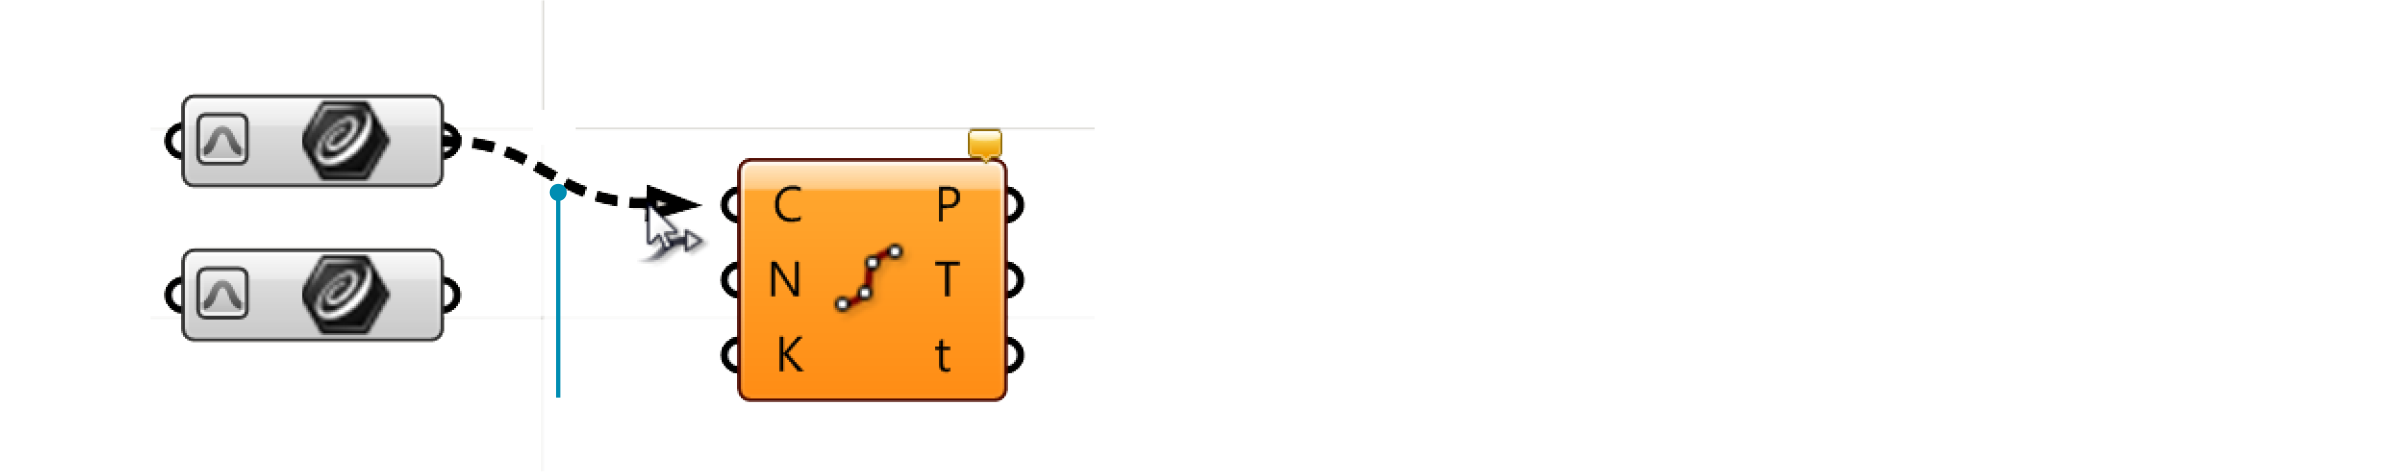
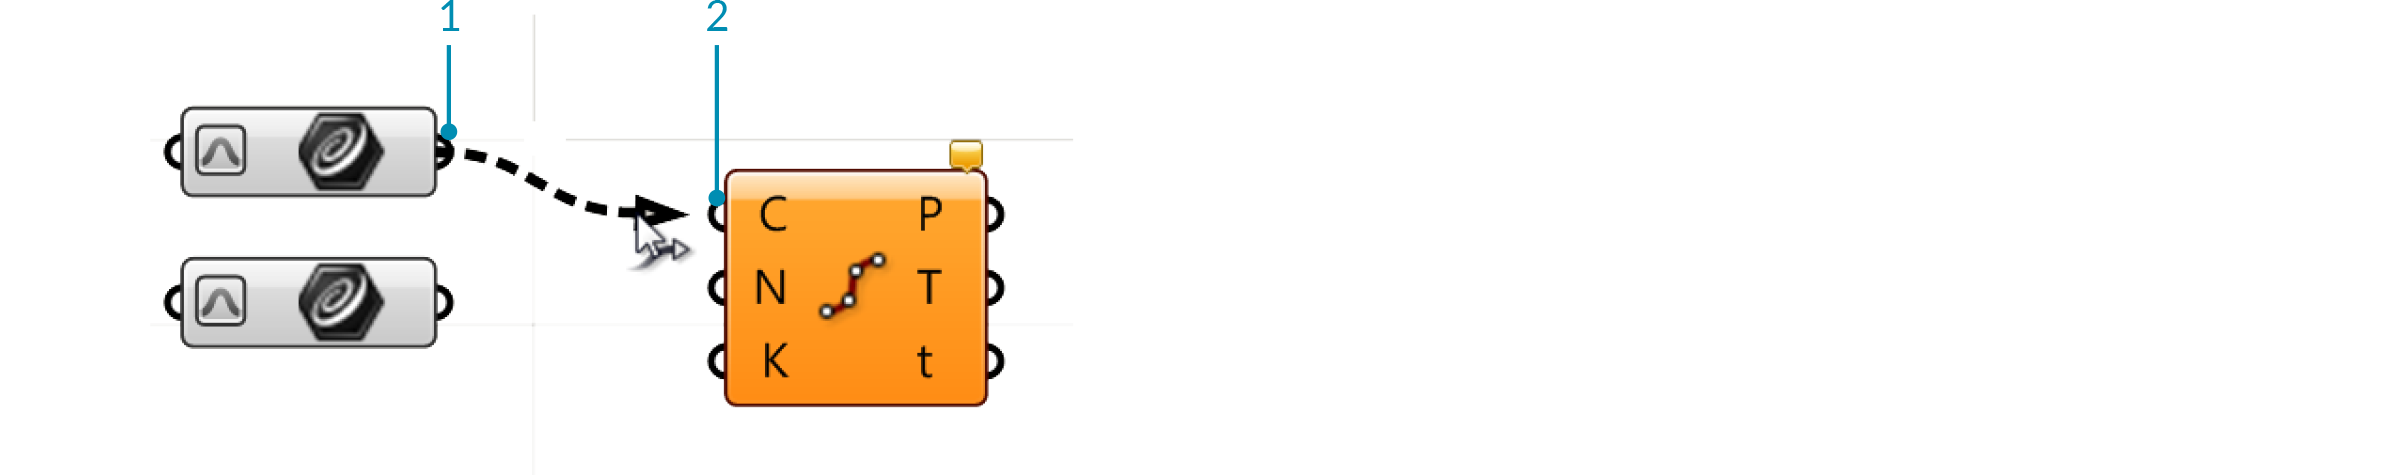
Updates 6/1
Leaders without numbers removed
Foundations image added
Element* added to add-ons
Split chapter 1.5.3

diff --git a/1-foundations/1-5-4_working-with-data-trees.md b/1-foundations/1-5-4_working-with-data-trees.md
@@ -1,67 +1,3 @@
-### 1.5.3. Working with Data Trees
-
-#####Grasshopper contains tools for changing the structure of a data tree. Theese tools can help you access specific data within a tree, and change the way it is stored, ordered, and identified.
-
-Let’s look at some data tree manipulations and visualize how they affect the tree.
-
-####1.5.3.1. FLATTEN
-Flattening removes all levels of a Data Tree, resulting in a single List. Using the Flatten component (Sets/Tree/Flatten) on the P output of our Divide Curve component, we can use the Param Viewer to visualize the new data structure.
-
-![IMAGE](images/1-5-3/1-5-3_001-flatten.png)
->In the Param Viewer, we can see that we now only have 1 branch containing a list of 48 points.
-
-####1.5.3.2. GRAFT TREE
-Grafting creates a new Branch for every Data Item. If we run the data through the Graft Tree component (Sets/Tree/Graft Tree), each division point now has its own individual branch, rather than sharing a branch with the other division points on the same curve.
-
-![IMAGE](images/1-5-3/1-5-3_002-graft.png)
->In the Param Viewer, we can see that what was data with 8 branches of 6 items each, we now have 8 branches with 6 sub-branches containing 1 item each.
-
-####1.5.3.3. SIMPLIFY TREE
-Simplify removes overlapping Branches in a Data Tree. If we run the data through the Simplify Tree component (Sets/Tree/Simplify Tree), the first branch, containing no data, has been removed.
-
-![IMAGE](images/1-5-3/1-5-3_003-simplify.png)
->In the Param Viewer, we still have 8 branches of 6 items each, but the first branch has been removed.
-
-####1.5.3.4. FLIP MATRIX
-The Flip Matrix component (Sets/Tree/Flip Matrix) Swaps the “Rows” and “Columns” of a Data Tree with two Path Indices.
-
-![IMAGE](images/1-5-3/1-5-3_004-flip-matrix.png)
->In the Param Viewer, we can see that what was data with 8 branches of 6 items each, we now have 6 branches with 8 items each.
-
-The Flatten, Graft, and Simplify operations can be applied to the component input or output itself, rather than feeding the data through a separate component. Just right-click the desired input or output and select Flatten, Graft, or Simplify from the menu. The component will display an icon to indicate that the tree is being modified. Keep in mind Grasshopper’s program flow. If you flatten a component input, the data will be flattened before the component
-operation is performed. If you flatten a component output, the data will be flattened after the component performs its action.
-
-![IMAGE](images/1-5-3/1-5-3_005-component-icon.png)
->1. Flattened output P
-2. Grafted output P
-3. Simplified output P
-
-####1.5.3.5. THE PATH MAPPER
-The Path Mapper component (Sets/Tree/Path Mapper) allows you to perform lexical operations on data trees. Lexical operations are logical mappings between data paths and indices which are defined by textual (lexical) masks and patterns.
-
-![IMAGE](images/1-5-3/1-5-3_006-path-mapper-a.png)
-![IMAGE](images/1-5-3/1-5-3_007-path-mapper-b.png)
->1. The Path Mapper component
-2. Right-click the Path Mapper component and select a predefined mapping option from the menu, or open the mapping editor
-3. The Mapping Editor
-4. You can modify a data tree by re-mapping the path index and the desired branch
-
-####1.5.3.6. WEAVING DEFINITION
-In this example, we will manipulate lists and data trees to weave lists of points, define a pattern, and create surface geometry.
-
-![IMAGE](images/1-5-3/1-5-3_008-weaving-example-a.png)
->1. Revolved NURBS surface
-2. NURBS curve
-3. Curve array
-4. Division points
-5. Paths (indices) of points
-
-![IMAGE](images/1-5-3/1-5-3_009-weaving-example-b.png)
->1. Array curves
-2. Dispatch curves into lists A and B, divide curves
-3. Cull poits, weave, and revolve
-
-
 <style>
 td:nth-child(1) {color: #008DB2}
 td:nth-child(3)	{font-size: 70%;width: 15%;}
@@ -69,96 +5,8 @@ td {background-color: #F9F9F9;}
 thead {display: none}
 </style>
 
-||||
-|--|--|--|
-|01.| Start a new definition, type Ctrl+N (in Grasshopper)||
-|02.| **Curve/Primitive/Line SDL** – Drag and drop the **Line SDL** component onto the canvas|[![IMAGE](images/1-5-3/1-5-3_010-line-SDL.png)](/appendix/index.html#CPLine)|
-|03.| **Vector/Point/Construct Point** – Drag and drop the **Construct Point** component onto the canvas|[![IMAGE](images/1-5-3/1-5-3_011-construct-point.png)](/appendix/index.html#VPPt)|
-|04.| Connect the Point (Pt) output of the **Construct Point** component to the Start (S) Input of the **Line SDL** component||
-|05.| **Vector/Vector/Unit Y** – Drag and drop the vector **Unit Y** component onto the canvas<br><blockquote>The factor of Unit Vector components is 1.0 by default.</blockquote>|[![IMAGE](images/1-5-3/1-5-3_012-unit-y.png)](/appendix/index.html#VVY)|
-|06.| Connect the **Unit Y** component to the Direction (D) input of the **Line SDL** component|||
+### 1.5.4. Working with Data Trees
 
-![IMAGE](images/1-5-3/1-5-3_013-definition1.png)
-
-||||
-|--|--|--|
-|07.| **Params/Input/Number Slider** – Drag and drop the **Number Slider** component onto the canvas||
-|08.| Double-click on the **Number Slider** and set the following: <ul>Name: Length<br>Rounding: Integer<br>Lower Limit: 0<br>Upper Limit: 96<br>Value: 96</ul>||
-|09.| Connect the **Number Slider** to the Length (L) input of the **Line SDL** component||
-|10.| **Transform/Array/Linear Array** – Drag and drop the **Linear Array** component onto the canvas|[![IMAGE](images/1-5-3/1-5-3_014-linear-array.png)](/appendix/index.html#TAArrLinear)|
-|11.| Connect the Line (L) output of the **Line SDL** component to the Geometry (G) input of the **Linear Array** component||
-|12.| **Vector/Vector/Unit X** – Drag and drop the vector **Unit X** component onto the canvas|[![IMAGE](images/1-5-3/1-5-3_015-unit-x.png)](/appendix/index.html#VVX)|
-|13.| **Params/Input/Number Slider** – Drag and drop two **Number Slider** components onto the canvas||
-|14.| Double-click on the first **Number Slider** and set the following: <ul>Name: Offset Distance<br>Rounding: Integer<br>Lower Limit: 1<br>Upper Limit: 10<br>Value: 4</ul>||
-|15.| Double-click on the second **Number Slider** and set the following: <ul>Name: # of Offsets<br>Rounding: Even<br>Lower Limit: 2<br>Upper Limit: 20<br>Value: 20</ul>||
-|16.| Connect the **Number Slider** (Offset Distance) to the Factor (F) input of the **Unit X** component||
-|17.| Connect the Vector (V) output of the **Unit X** component to the Direction (D) input of the **Linear Array** component||
-|18.| Connect the **Number Slider** (# of Offsets) to the Count (N) input of the **Linear Array** component|||
-
-![IMAGE](images/1-5-3/1-5-3_016-definition2.png)
-
-![IMAGE](images/1-5-3/1-5-3_017-output2.png)
->You should now see an array of lines in the Rhino viewport. The three sliders allow you to change the length of the lines, their distance from each other, and the number of lines in the array.
-
-||||
-|--|--|--|
-|19.| **Sets/Lists/Dispatch** – Drag and drop the **Dispatch** component onto the canvas|[![IMAGE](images/1-5-3/1-5-3_018-dispatch.png)](/appendix/index.html#SLDispatch)|
-|20.| Connect the Geometry (G) output of the **Linear Array** component to the List (L) input of the **Dispatch** component||
-|21.| **Params/Input/Panel** – Drag and drop the **Panel** component onto the canvas ||
-|22.| Double-click the **Panel**, deselect Multiline Data, Wrap Items and Special Codes, and enter the following: <ul>true<br>false</ul>|[![IMAGE](images/1-5-3/1-5-3_019-panel.png)](/appendix/index.html#PIPanel)|
-|23.| Connect the **Panel** to the Pattern (P) input of the **Dispatch** component||
-|24.| **Curve/Division/Divide Curve** – Drag and drop two **Divide Curve** components onto the canvas|[![IMAGE](images/1-5-3/1-5-3_020-divide-curve.png)](/appendix/index.html#CDDivide)|
-|25.| Connect the List A (A) output of the **Dispatch** component to the Curve (C) input of the first **Divide Curve** component||
-|26.| Connect the List B (B) output of the **Dispatch** component to the Curve (C) input of the second **Divide Curve** component||
-|27.| **Params/Input/Number Slider** – Drag and drop the **Number Slider** component onto the canvas||
-|28.| Double-click on the **Number Slider** and set the following:<ul>Name: Divisions<br>Rounding: Integer<br>Lower Limit: 0<br>Upper Limit: 20<br>Value: 20</ul>||
-|29.| Connect the **Number Slider** (Divisions) to the Count (N) input of both **Divide Curve** components.|||
-
-![IMAGE](images/1-5-3/1-5-3_021-definition3.png)
-
-![IMAGE](images/1-5-3/1-5-3_022-output3.png)
->1. The Dispatch component sends every second curve in the array to a separate list.
-2. The Divide Curve component divides the curves into the number of segments specified by the slider. Adjust the slider to change the number of points.
-
-||||
-|--|--|--|
-|30.| **Sets/Sequence/Cull Pattern** – Drag and drop two **Cull Pattern** components onto the canvas|[![IMAGE](images/1-5-3/1-5-3_023-cull-pattern.png)](/appendix/index.html#SSCull)|
-|31.| Connect the Points (P) output of the first **Divide Curve** component to the List (L) input of the first **Cull Pattern** component||
-|32.| Connect the Points (P) output of the second **Divide Curve** component to the List (L) input of the second **Cull Pattern** component||
-|33.| **Params/Input/Panel** – Drag and drop a second **Panel** component onto the canvas||
-|34.| Double-click the second **Panel** and deselect: Multiline Data, Wrap Items, and Special Codes. Then enter the following:<ul>1<br>1<br>0<br>0</ul><br><blockquote>We are using 1 and 0 in place of true and false. These are the two syntaxes that Grasshopper accepts for boolean values.</blockquote>|[![IMAGE](images/1-5-3/1-5-3_024-panel.png)](/appendix/index.html#PIPanel)|
-|35.| Connect the second **Panel** to the Pattern (P) input of the first **Cull Pattern** component||
-|36.| Connect the second **Pane**l to the Pattern (P) input of the second **ull Pattern** component||
-|37.| Right-click on the Pattern (P) input of the second **Cull Pattern** component and select Invert <br><blockquote>This will invert the **Cull Pattern**, a useful trick to keep definitions short.</blockquote>||
-|38.| **Sets/List/Weave** – Drag and drop the **Weave** component onto the canvas|[![IMAGE](images/1-5-3/1-5-3_025-weave.png)](/appendix/index.html#SLWeave)|
-|39.| Connect the second **Panel** to the Pattern (P) input of the **Weave** component||
-|40.| Right-click the Pattern (P) input of the **Weave** component and select reverse||
-|41.| Connect the List (L) output of the first **Cull Pattern** component to the Stream 0 (0) input of the **Weave** component||
-|42.| Connect the List (L) output of the second **Cull Pattern** component to the Stream 0 (0) input of the **Weave** component||
-|43.| **Curve/Spline/Nurbs Curve** – Drag and drop the **Nurbs Curve** component onto the canvas|[![IMAGE](images/1-5-3/1-5-3_026-nurbs.png)](/appendix/index.html#CSNurbs)|
-|44.| Connect the Weave (W) output of the **Weave** component to the Vertices (V) input of the **Nurbs Curve** component.|||
-
-![IMAGE](images/1-5-3/1-5-3_027-definition4.png)
-
-![IMAGE](images/1-5-3/1-5-3_028-output4.png)
->1. The cull patterns remove alternating points from each list.
-2. The Weave component collects data from the point lists according to a custom pattern. This data is fed into the interpolate component to create curves.
-
-||||
-|--|--|--|
-|45.| **Surface/Freeform/Revolution** – Drag and drop two **Revolution** components onto the canvas|[![IMAGE](images/1-5-3/1-5-3_029-revolution.png)](/appendix/index.html#SFRevSrf)|
-|46.| Connect the Curve output of the **Nurbs Curve** component to the Profile Curve (P) input of both **Revolution** components.||
-|47.| Right Click on Axis (A) input of both **Revolution** components and select Graft.||
-|48.| Connect the List A (A) output of the **Dispatch** component to the Axis (A) input of the first **Revolution** component||
-|49.| Connect the List B (B) output of the **Dispatch** component to the Axis (A) input of the second **Revolution** component <br><blockquote>Select all the components except the two Revolution components and turn the preview off - it is helpful to turn previews off as you build the definition to focus on the most recent geometry</blockquote>|||
-
-![IMAGE](images/1-5-3/1-5-3_030-definition5.png)
-
-![IMAGE](images/1-5-3/1-5-3_031-output5.png)
-
-![IMAGE](images/1-5-3/1-5-3_032-large-example.png)
-
-####1.5.3.7. RAIL INTERSECTION DEFINITION
 In this example, we will use some of Grasshopper’s tools for manipulating data trees to retreive, reorganize, and interpolate the desired points contained in a data tree and create a lattice of intersecting fins.
 
 ![IMAGE](images/1-5-3/1-5-3_033-rail-intersect.png)

diff --git a/1-foundations/1-5-3_creating-data-trees.md b/1-foundations/1-5-3_creating-data-trees.md
@@ -1,0 +1,159 @@
+### 1.5.3. Creating Data Trees
+
+#####Grasshopper contains tools for changing the structure of a data tree. Theese tools can help you access specific data within a tree, and change the way it is stored, ordered, and identified.
+
+Let’s look at some data tree manipulations and visualize how they affect the tree.
+
+####1.5.3.1. FLATTEN
+Flattening removes all levels of a Data Tree, resulting in a single List. Using the Flatten component (Sets/Tree/Flatten) on the P output of our Divide Curve component, we can use the Param Viewer to visualize the new data structure.
+
+![IMAGE](images/1-5-3/1-5-3_001-flatten.png)
+>In the Param Viewer, we can see that we now only have 1 branch containing a list of 48 points.
+
+####1.5.3.2. GRAFT TREE
+Grafting creates a new Branch for every Data Item. If we run the data through the Graft Tree component (Sets/Tree/Graft Tree), each division point now has its own individual branch, rather than sharing a branch with the other division points on the same curve.
+
+![IMAGE](images/1-5-3/1-5-3_002-graft.png)
+>In the Param Viewer, we can see that what was data with 8 branches of 6 items each, we now have 8 branches with 6 sub-branches containing 1 item each.
+
+####1.5.3.3. SIMPLIFY TREE
+Simplify removes overlapping Branches in a Data Tree. If we run the data through the Simplify Tree component (Sets/Tree/Simplify Tree), the first branch, containing no data, has been removed.
+
+![IMAGE](images/1-5-3/1-5-3_003-simplify.png)
+>In the Param Viewer, we still have 8 branches of 6 items each, but the first branch has been removed.
+
+####1.5.3.4. FLIP MATRIX
+The Flip Matrix component (Sets/Tree/Flip Matrix) Swaps the “Rows” and “Columns” of a Data Tree with two Path Indices.
+
+![IMAGE](images/1-5-3/1-5-3_004-flip-matrix.png)
+>In the Param Viewer, we can see that what was data with 8 branches of 6 items each, we now have 6 branches with 8 items each.
+
+The Flatten, Graft, and Simplify operations can be applied to the component input or output itself, rather than feeding the data through a separate component. Just right-click the desired input or output and select Flatten, Graft, or Simplify from the menu. The component will display an icon to indicate that the tree is being modified. Keep in mind Grasshopper’s program flow. If you flatten a component input, the data will be flattened before the component
+operation is performed. If you flatten a component output, the data will be flattened after the component performs its action.
+
+![IMAGE](images/1-5-3/1-5-3_005-component-icon.png)
+>1. Flattened output P
+2. Grafted output P
+3. Simplified output P
+
+####1.5.3.5. THE PATH MAPPER
+The Path Mapper component (Sets/Tree/Path Mapper) allows you to perform lexical operations on data trees. Lexical operations are logical mappings between data paths and indices which are defined by textual (lexical) masks and patterns.
+
+![IMAGE](images/1-5-3/1-5-3_006-path-mapper-a.png)
+![IMAGE](images/1-5-3/1-5-3_007-path-mapper-b.png)
+>1. The Path Mapper component
+2. Right-click the Path Mapper component and select a predefined mapping option from the menu, or open the mapping editor
+3. The Mapping Editor
+4. You can modify a data tree by re-mapping the path index and the desired branch
+
+####1.5.3.6. WEAVING DEFINITION
+In this example, we will manipulate lists and data trees to weave lists of points, define a pattern, and create surface geometry.
+
+![IMAGE](images/1-5-3/1-5-3_008-weaving-example-a.png)
+>1. Revolved NURBS surface
+2. NURBS curve
+3. Curve array
+4. Division points
+5. Paths (indices) of points
+
+![IMAGE](images/1-5-3/1-5-3_009-weaving-example-b.png)
+>1. Array curves
+2. Dispatch curves into lists A and B, divide curves
+3. Cull poits, weave, and revolve
+
+
+<style>
+td:nth-child(1) {color: #008DB2}
+td:nth-child(3)	{width: 15%;}
+td {background-color: #F9F9F9;}
+thead {display: none}
+</style>
+
+||||
+|--|--|--|
+|01.| Start a new definition, type Ctrl+N (in Grasshopper)||
+|02.| **Curve/Primitive/Line SDL** – Drag and drop the **Line SDL** component onto the canvas|[![IMAGE](images/1-5-3/1-5-3_010-line-SDL.png)](/appendix/index.html#CPLine)|
+|03.| **Vector/Point/Construct Point** – Drag and drop the **Construct Point** component onto the canvas|[![IMAGE](images/1-5-3/1-5-3_011-construct-point.png)](/appendix/index.html#VPPt)|
+|04.| Connect the Point (Pt) output of the **Construct Point** component to the Start (S) Input of the **Line SDL** component||
+|05.| **Vector/Vector/Unit Y** – Drag and drop the vector **Unit Y** component onto the canvas<br><blockquote>The factor of Unit Vector components is 1.0 by default.</blockquote>|[![IMAGE](images/1-5-3/1-5-3_012-unit-y.png)](/appendix/index.html#VVY)|
+|06.| Connect the **Unit Y** component to the Direction (D) input of the **Line SDL** component|||
+
+![IMAGE](images/1-5-3/1-5-3_013-definition1.png)
+
+||||
+|--|--|--|
+|07.| **Params/Input/Number Slider** – Drag and drop the **Number Slider** component onto the canvas||
+|08.| Double-click on the **Number Slider** and set the following: <ul>Name: Length<br>Rounding: Integer<br>Lower Limit: 0<br>Upper Limit: 96<br>Value: 96</ul>||
+|09.| Connect the **Number Slider** to the Length (L) input of the **Line SDL** component||
+|10.| **Transform/Array/Linear Array** – Drag and drop the **Linear Array** component onto the canvas|[![IMAGE](images/1-5-3/1-5-3_014-linear-array.png)](/appendix/index.html#TAArrLinear)|
+|11.| Connect the Line (L) output of the **Line SDL** component to the Geometry (G) input of the **Linear Array** component||
+|12.| **Vector/Vector/Unit X** – Drag and drop the vector **Unit X** component onto the canvas|[![IMAGE](images/1-5-3/1-5-3_015-unit-x.png)](/appendix/index.html#VVX)|
+|13.| **Params/Input/Number Slider** – Drag and drop two **Number Slider** components onto the canvas||
+|14.| Double-click on the first **Number Slider** and set the following: <ul>Name: Offset Distance<br>Rounding: Integer<br>Lower Limit: 1<br>Upper Limit: 10<br>Value: 4</ul>||
+|15.| Double-click on the second **Number Slider** and set the following: <ul>Name: # of Offsets<br>Rounding: Even<br>Lower Limit: 2<br>Upper Limit: 20<br>Value: 20</ul>||
+|16.| Connect the **Number Slider** (Offset Distance) to the Factor (F) input of the **Unit X** component||
+|17.| Connect the Vector (V) output of the **Unit X** component to the Direction (D) input of the **Linear Array** component||
+|18.| Connect the **Number Slider** (# of Offsets) to the Count (N) input of the **Linear Array** component|||
+
+![IMAGE](images/1-5-3/1-5-3_016-definition2.png)
+
+![IMAGE](images/1-5-3/1-5-3_017-output2.png)
+>You should now see an array of lines in the Rhino viewport. The three sliders allow you to change the length of the lines, their distance from each other, and the number of lines in the array.
+
+||||
+|--|--|--|
+|19.| **Sets/Lists/Dispatch** – Drag and drop the **Dispatch** component onto the canvas|[![IMAGE](images/1-5-3/1-5-3_018-dispatch.png)](/appendix/index.html#SLDispatch)|
+|20.| Connect the Geometry (G) output of the **Linear Array** component to the List (L) input of the **Dispatch** component||
+|21.| **Params/Input/Panel** – Drag and drop the **Panel** component onto the canvas ||
+|22.| Double-click the **Panel**, deselect Multiline Data, Wrap Items and Special Codes, and enter the following: <ul>true<br>false</ul>|[![IMAGE](images/1-5-3/1-5-3_019-panel.png)](/appendix/index.html#PIPanel)|
+|23.| Connect the **Panel** to the Pattern (P) input of the **Dispatch** component||
+|24.| **Curve/Division/Divide Curve** – Drag and drop two **Divide Curve** components onto the canvas|[![IMAGE](images/1-5-3/1-5-3_020-divide-curve.png)](/appendix/index.html#CDDivide)|
+|25.| Connect the List A (A) output of the **Dispatch** component to the Curve (C) input of the first **Divide Curve** component||
+|26.| Connect the List B (B) output of the **Dispatch** component to the Curve (C) input of the second **Divide Curve** component||
+|27.| **Params/Input/Number Slider** – Drag and drop the **Number Slider** component onto the canvas||
+|28.| Double-click on the **Number Slider** and set the following:<ul>Name: Divisions<br>Rounding: Integer<br>Lower Limit: 0<br>Upper Limit: 20<br>Value: 20</ul>||
+|29.| Connect the **Number Slider** (Divisions) to the Count (N) input of both **Divide Curve** components.|||
+
+![IMAGE](images/1-5-3/1-5-3_021-definition3.png)
+
+![IMAGE](images/1-5-3/1-5-3_022-output3.png)
+>1. The Dispatch component sends every second curve in the array to a separate list.
+2. The Divide Curve component divides the curves into the number of segments specified by the slider. Adjust the slider to change the number of points.
+
+||||
+|--|--|--|
+|30.| **Sets/Sequence/Cull Pattern** – Drag and drop two **Cull Pattern** components onto the canvas|[![IMAGE](images/1-5-3/1-5-3_023-cull-pattern.png)](/appendix/index.html#SSCull)|
+|31.| Connect the Points (P) output of the first **Divide Curve** component to the List (L) input of the first **Cull Pattern** component||
+|32.| Connect the Points (P) output of the second **Divide Curve** component to the List (L) input of the second **Cull Pattern** component||
+|33.| **Params/Input/Panel** – Drag and drop a second **Panel** component onto the canvas||
+|34.| Double-click the second **Panel** and deselect: Multiline Data, Wrap Items, and Special Codes. Then enter the following:<ul>1<br>1<br>0<br>0</ul><br><blockquote>We are using 1 and 0 in place of true and false. These are the two syntaxes that Grasshopper accepts for boolean values.</blockquote>|[![IMAGE](images/1-5-3/1-5-3_024-panel.png)](/appendix/index.html#PIPanel)|
+|35.| Connect the second **Panel** to the Pattern (P) input of the first **Cull Pattern** component||
+|36.| Connect the second **Pane**l to the Pattern (P) input of the second **ull Pattern** component||
+|37.| Right-click on the Pattern (P) input of the second **Cull Pattern** component and select Invert <br><blockquote>This will invert the **Cull Pattern**, a useful trick to keep definitions short.</blockquote>||
+|38.| **Sets/List/Weave** – Drag and drop the **Weave** component onto the canvas|[![IMAGE](images/1-5-3/1-5-3_025-weave.png)](/appendix/index.html#SLWeave)|
+|39.| Connect the second **Panel** to the Pattern (P) input of the **Weave** component||
+|40.| Right-click the Pattern (P) input of the **Weave** component and select reverse||
+|41.| Connect the List (L) output of the first **Cull Pattern** component to the Stream 0 (0) input of the **Weave** component||
+|42.| Connect the List (L) output of the second **Cull Pattern** component to the Stream 0 (0) input of the **Weave** component||
+|43.| **Curve/Spline/Nurbs Curve** – Drag and drop the **Nurbs Curve** component onto the canvas|[![IMAGE](images/1-5-3/1-5-3_026-nurbs.png)](/appendix/index.html#CSNurbs)|
+|44.| Connect the Weave (W) output of the **Weave** component to the Vertices (V) input of the **Nurbs Curve** component.|||
+
+![IMAGE](images/1-5-3/1-5-3_027-definition4.png)
+
+![IMAGE](images/1-5-3/1-5-3_028-output4.png)
+>1. The cull patterns remove alternating points from each list.
+2. The Weave component collects data from the point lists according to a custom pattern. This data is fed into the interpolate component to create curves.
+
+||||
+|--|--|--|
+|45.| **Surface/Freeform/Revolution** – Drag and drop two **Revolution** components onto the canvas|[![IMAGE](images/1-5-3/1-5-3_029-revolution.png)](/appendix/index.html#SFRevSrf)|
+|46.| Connect the Curve output of the **Nurbs Curve** component to the Profile Curve (P) input of both **Revolution** components.||
+|47.| Right Click on Axis (A) input of both **Revolution** components and select Graft.||
+|48.| Connect the List A (A) output of the **Dispatch** component to the Axis (A) input of the first **Revolution** component||
+|49.| Connect the List B (B) output of the **Dispatch** component to the Axis (A) input of the second **Revolution** component <br><blockquote>Select all the components except the two Revolution components and turn the preview off - it is helpful to turn previews off as you build the definition to focus on the most recent geometry</blockquote>|||
+
+![IMAGE](images/1-5-3/1-5-3_030-definition5.png)
+
+![IMAGE](images/1-5-3/1-5-3_031-output5.png)
+
+![IMAGE](images/1-5-3/1-5-3_032-large-example.png)

diff --git a/SUMMARY.md b/SUMMARY.md
@@ -2,6 +2,7 @@
 
 * [About](README.md)
    * [Grasshopper - an Overview](about/0-1-grasshopper-an-overview.md)
+   * [Grasshopper in Action](about/0-2-grasshopper-in-action.md)
 * [Foundations](1-foundations/1-foundations.md)
    * [Hello Grasshopper!](1-foundations/1-1_hello-grasshopper.md)
        * [Installing and Launching Grasshopper](1-foundations/1-1-1_installing-and-launching-grasshopper.md)
@@ -30,7 +31,8 @@
    * [Designing with Data Trees](1-foundations/1-5_designing-with-data-trees.md)
        * [Surface Geometry](1-foundations/1-5-1_surface-geometry.md)
        * [What is a Data Tree?](1-foundations/1-5-2_what-is-a-data-tree.md)
-       * [Working with Data Trees](1-foundations/1-5-3_working-with-data-trees.md)
+       * [Creating Data Trees](1-foundations/1-5-3_creating-data-trees.md)
+       * [Working with Data Trees](1-foundations/1-5-4_working-with-data-trees.md)
 * [Appendix](appendix/README.md)
    * [Index](appendix/index.md)
    * [Resources](appendix/resources.md)

diff --git a/appendix/resources.md b/appendix/resources.md
@@ -24,6 +24,10 @@ http://www.grasshopper3d.com/page/addons-forgrasshopper
 DIVA-for-Rhino allows users to carry out a series of environmental performance evaluations of individual buildings and urban landscapes.
 http://diva4rhino.com/
 
+![IMAGE](images/resources/elementlogo.png)
+Element is a mesh geometry plugin for Grasshopper, enabling mesh creation, analysis, transformation, subdivision, and smoothing.
+http://www.food4rhino.com/project/element
+
 ![IMAGE](images/resources/firefly.png)
 Firefly offers a set of comprehensive software tools dedicated to bridging the gap between Grasshopper and the Arduino micro-controller.
 http://fireflyexperiments.com

diff --git a/1-foundations/1-2-4_wiring-components.md b/1-foundations/1-2-4_wiring-components.md
@@ -10,7 +10,7 @@ To connect components, click and drag near the circle on the output side of an o
 2. Curve parameter - right click and select Set One Curve to reference Rhino Geometry.
 
 ![IMAGE](images/1-2-4/1-2-4_001b.png)
->3. Left click and drag the wire from the output of one object to the input of another.
+>Left click and drag the wire from the output (1.) of one object to the input (2.) of another.
 
 ![IMAGE](images/1-2-4/1-2-4_001c.png)
 >4. If you hold down CONTROL, the cursor will become red, and the targeted source will be removed from the source list.

diff --git a/about/0-2-grasshopper-in-action.md b/about/0-2-grasshopper-in-action.md
@@ -1,0 +1,5 @@
+## Grasshopper in Action
+
+<a data-pin-do="embedBoard" href="http://www.pinterest.com/akos0806/grasshopper-in-action/" data-pin-scale-width="240" data-pin-scale-height="1280" data-pin-board-width="770">Follow the Grasshopper in Action board on Pinterest.</a>
+<!-- Please call pinit.js only once per page -->
+<script type="text/javascript" async defer src="//assets.pinterest.com/js/pinit.js"></script>

diff --git a/1-foundations/1-1_hello-grasshopper.md b/1-foundations/1-1_hello-grasshopper.md
@@ -1,4 +1,4 @@
 ## 1.1. HELLO GRASSHOPPER
 
 #### Grasshopper is a graphical algorithm editor that is integrated with Rhino3D’s modeling tools. You use Grasshopper to design algorithms that then automate tasks in Rhino3D.
-![IMAGE](images/1-1/1-1.png)
+

diff --git a/1-foundations/1-foundations.md b/1-foundations/1-foundations.md
@@ -1,3 +1,4 @@
 # 1. FOUNDATIONS
 
 #### A strong foundation is built to last. This volume of the Primer introduces the key concepts and features of parametric modeling with Grasshopper.
+![IMAGE](images/1-1/1-1.png)
